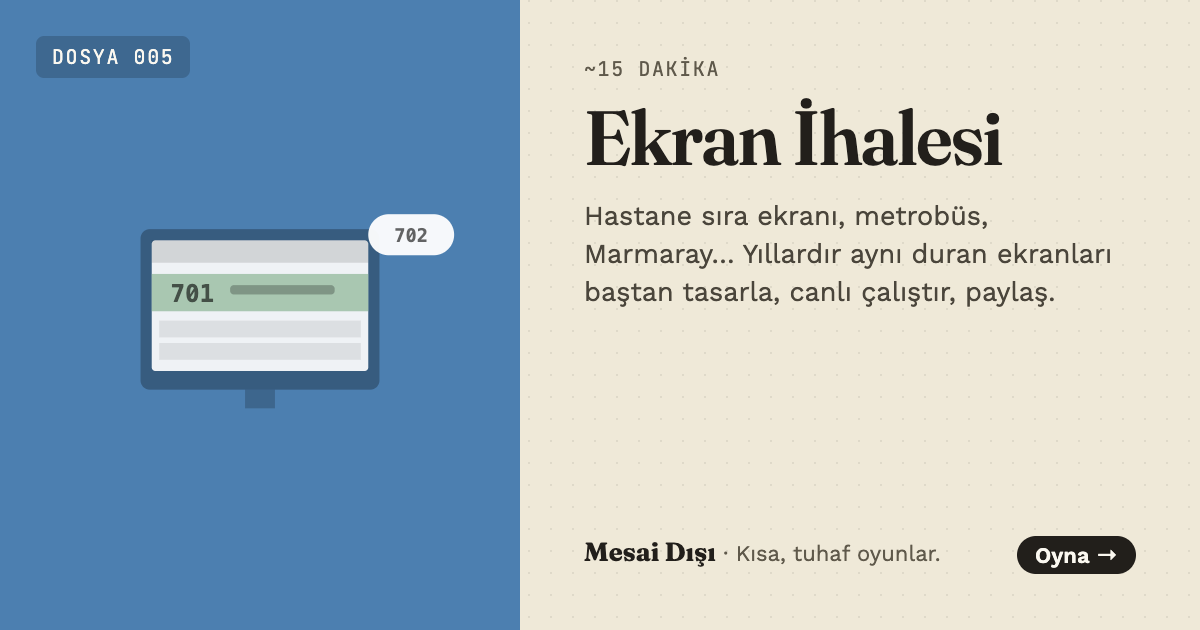
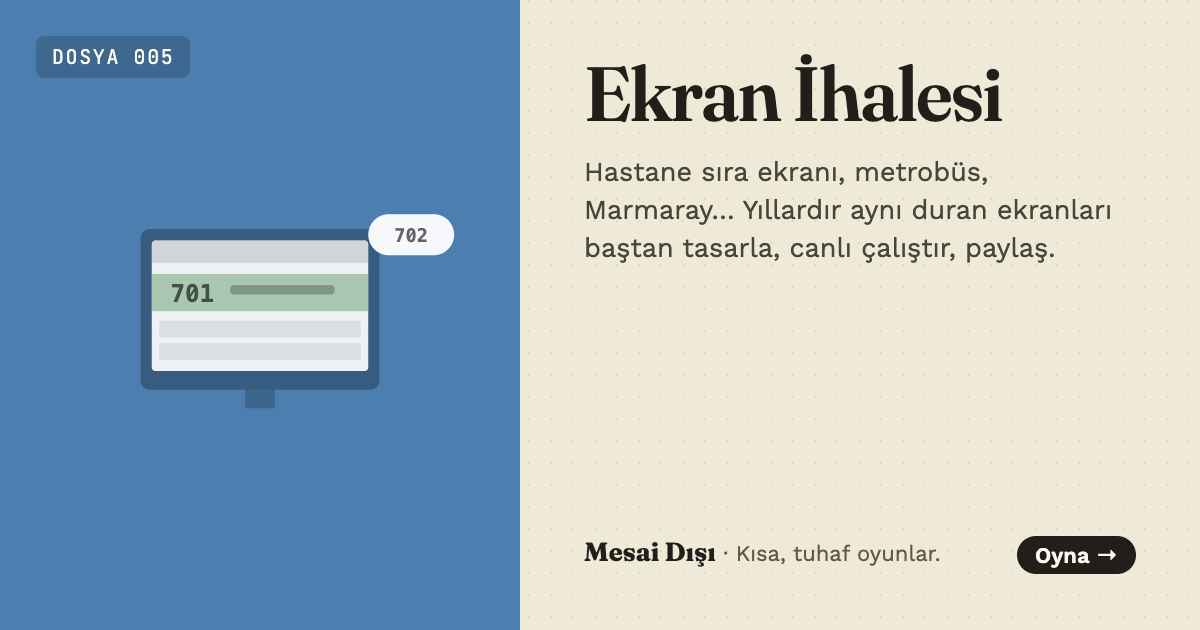
Oyun kartlarında süre yerine tek cümlelik espri
- Maket kartı ve paylaşım önizlemesi artık oyun süresini yazmıyor
- Her oyunun adının altında onu şakayla anlatan bir cümle (games.ts'te quip); durakların ortak satırı kalktı
- Önizleme görselleri yeniden üretildi; eksik olan Kavşak Amiri ve Cüzdan Zamanı görselleri eklendi

Changed region(s): [[0.4933, 0.0905, 0.925, 0.4222], [0.4933, 0.4524, 0.8942, 0.4825]]

diff --git a/src/arcade/games.ts b/src/arcade/games.ts
@@ -16,9 +16,8 @@ export interface ArcadeGame {
   blurb: string;
   /** Kartın zemin rengi (tokens.css). */
   color: string;
-  minutes: number;
-  /** Süre bütün oyunun değil, oyunun bir gününün süresiyse: kartta "5 dk / gün" yazar. */
-  perDay?: boolean;
+  /** Oyunu tek cümleyle, şakayla anlatan satır: maketteki kartta oyunun adının altında yazar. */
+  quip: string;
   /** Personel dosyası numarası: kartın sekmesinde yazar, sırayı da verir. */
   file: number;
 }
@@ -29,7 +28,7 @@ export const GAMES: ArcadeGame[] = [
     title: 'Cüzdan Zamanı',
     blurb: 'Cüzdan TL 2005\'te açılıyor. Saati 2002\'ye geri al: simit 250 bin, ekran mavi pencereli. Eski fiyatı bil, ucuzu seç, çevirmeli bağlanıp eski bakkaldan alışveriş yap; her şeyi enflasyonla karşılaştır.',
     color: 'var(--teal)',
-    minutes: 8,
+    quip: "Saati 2002'ye geri alıyorsun: simit ucuzluyor, sen bir anlığına zengin oluyorsun.",
     file: 9,
   },
   {
@@ -37,7 +36,7 @@ export const GAMES: ArcadeGame[] = [
     title: 'Kavşak Amiri',
     blurb: 'Tek kavşaktan dört kavşaklı caddeye. Yeşili, sarıyı, kırmızıyı ayarla; maç çıkışında dedektörü aç, sönen ışığa usta çağır, Vatan Caddesi’ne yeşil dalga kur.',
     color: 'var(--blue-ink)',
-    minutes: 18,
+    quip: "Kırk sürücü aynı anda korna çalıyor ve hepsi haklı; ışık sende.",
     file: 8,
   },
   {
@@ -45,7 +44,7 @@ export const GAMES: ArcadeGame[] = [
     title: 'Yama Ekibi',
     blurb: 'Üç aydır kapanmayan çukur, yağmur ve kurdele kesmeye gelen başkan. Toprağı dök, mıcırı yay, asfalt soğumadan silindiri geçir.',
     color: 'var(--red)',
-    minutes: 8,
+    quip: "Üç aydır bekleyen çukuru, başkan kurdeleyi kesmeden kapatman gerekiyor.",
     file: 7,
   },
   {
@@ -53,7 +52,7 @@ export const GAMES: ArcadeGame[] = [
     title: 'Meydan Islahı',
     blurb: 'İstanbul’dan Diyarbakır’a beş sokak: kaçak katlar, klimalar, kompozit yamalar. Cepheyi kapla, binayı güçlendir, tabelaları hizaya sok.',
     color: 'var(--green)',
-    minutes: 10,
+    quip: "Klimayı, tabelayı, kaçak katı topla; gerisini bir sonraki imar affına bırak.",
     file: 6,
   },
   {
@@ -61,7 +60,7 @@ export const GAMES: ArcadeGame[] = [
     title: 'Ekran İhalesi',
     blurb: 'Hastane sıra ekranı, metrobüs, Marmaray… Yıllardır aynı duran ekranları baştan tasarla, canlı çalıştır, paylaş.',
     color: 'var(--blue)',
-    minutes: 15,
+    quip: "2009'dan beri \"PES**** TÜR****\" yazan ekranı kurtarma ihalesi sana kaldı.",
     file: 5,
   },
   {
@@ -69,8 +68,7 @@ export const GAMES: ArcadeGame[] = [
     title: 'Köy Bakkalı',
     blurb: 'Etiket yok, fiyatı sen söylersin. Müşterinin yüzünü oku, defterini tut, köyü küstürmeden kasayı doldur. Şükrü Amca 30 gün sonra dönüyor.',
     color: 'var(--gold)',
-    minutes: 5,
-    perDay: true,
+    quip: "Etiket yok, fiyatı sen söylersin; köy de senin hakkında ne düşündüğünü söyler.",
     file: 4,
   },
   {
@@ -78,7 +76,7 @@ export const GAMES: ArcadeGame[] = [
     title: 'İnşaat İzleme',
     blurb: 'Bir apartman, temelden çatıya. Ellerini arkana koy, izle. Yorum yapmak serbest, karışmak yasak.',
     color: 'var(--clay)',
-    minutes: 7,
+    quip: "Hiçbir şeye dokunmadan koca bir apartman bitiriyorsun; amcalar seninle gurur duyuyor.",
     file: 3,
   },
   {
@@ -86,7 +84,7 @@ export const GAMES: ArcadeGame[] = [
     title: 'Genel Yetenek ve Uyum Testi',
     blurb: 'Bilimsel olarak geliştirilmiş, tamamen objektif bir değerlendirme. Lütfen sekmeyi değiştirmeyiniz.',
     color: 'var(--plum)',
-    minutes: 24,
+    quip: "Doğru cevap yok, ama yanlış cevaplarınız yöneticinize raporlanacaktır.",
     file: 2,
   },
   {
@@ -94,7 +92,7 @@ export const GAMES: ArcadeGame[] = [
     title: "Sen İK'sin",
     blurb: '5 günlük işe alım simülasyonu. Kurallara mı uyacaksın, vicdanını mı dinleyeceksin?',
     color: 'var(--teal)',
-    minutes: 45,
+    quip: "Beş günde yüzlerce CV, bir müdür ve bir vicdan: üçünü birden memnun edemezsin.",
     file: 1,
   },
 ];

diff --git a/src/arcade/welcome/stops.ts b/src/arcade/welcome/stops.ts
@@ -17,8 +17,6 @@ export interface Stop {
   name: string;
   where: string;
   routes: GameRoute[];
-  /** Kartta oyunun altına düşen kısa satır. */
-  line: string;
   /** İşaretin kutu içindeki yeri, yüzde olarak. */
   x: number;
   y: number;
@@ -33,20 +31,20 @@ function toBox(ix: number, iy: number) {
   return { x: ((ix * scale - crop) / BOX_W) * 100, y: ((iy * scale) / BOX_H) * 100 };
 }
 
-const RAW: { id: PlaceId; at: [number, number]; r: number; line: string }[] = [
-  { id: 'plaza', at: [545, 250], r: 13, line: 'Asansör iki kat sorar: işe alım ya da uyum testi.' },
-  { id: 'santiye', at: [845, 330], r: 13, line: 'Temelden çatıya bir apartman. İzle, karışma.' },
-  { id: 'meydan', at: [255, 470], r: 13, line: 'Çatlak sıvalar, kaçak katlar: cepheyi elden geçir.' },
-  { id: 'bakkal', at: [350, 615], r: 10, line: 'Etiket yok; fiyatı sen söylersin.' },
-  { id: 'durak', at: [495, 605], r: 7, line: 'Yıllardır aynı duran ekranı baştan tasarla.' },
-  { id: 'isik', at: [697, 585], r: 6, line: 'Yeşili, sarıyı, kırmızıyı sen ayarla.' },
-  { id: 'doviz', at: [790, 625], r: 10, line: 'Kurlar 2002’den. Eski fiyatı bil, cüzdanı doldur.' },
-  { id: 'cukur', at: [672, 716], r: 7, line: 'Üç aydır kapanmayan çukur. Asfalt soğumadan kapat.' },
+const RAW: { id: PlaceId; at: [number, number]; r: number }[] = [
+  { id: 'plaza', at: [545, 250], r: 13 },
+  { id: 'santiye', at: [845, 330], r: 13 },
+  { id: 'meydan', at: [255, 470], r: 13 },
+  { id: 'bakkal', at: [350, 615], r: 10 },
+  { id: 'durak', at: [495, 605], r: 7 },
+  { id: 'isik', at: [697, 585], r: 6 },
+  { id: 'doviz', at: [790, 625], r: 10 },
+  { id: 'cukur', at: [672, 716], r: 7 },
 ];
 
-export const STOPS: Stop[] = RAW.map(({ id, at, r, line }) => {
+export const STOPS: Stop[] = RAW.map(({ id, at, r }) => {
   const place = PLACES.find((p) => p.id === id)!;
-  return { id, name: place.name, where: place.where, routes: place.routes, line, r, ...toBox(at[0], at[1]) };
+  return { id, name: place.name, where: place.where, routes: place.routes, r, ...toBox(at[0], at[1]) };
 });
 
 /** İmlecin en yakın durağı (kutu yüzdesiyle; yükseklik kutunun en-boy oranıyla düzeltilir). */

diff --git a/src/arcade/welcome/Model.tsx b/src/arcade/welcome/Model.tsx
@@ -175,9 +175,8 @@ function Card({ stop, progress, onEnter, onClose, pinned }: { stop: Stop; progre
         return (
           <div key={route} className={s.game}>
             <h3>{g.title}</h3>
-            <p className={s.meta}>
-              {g.minutes} dk{g.perDay && ' / gün'}{played && <span className={s.played}> · ✓ {played.result}</span>}
-            </p>
+            <p className={s.line}>{g.quip}</p>
+            {played && <p className={`${s.meta} ${s.played}`}>✓ {played.result}</p>}
             {stop.routes.length > 1 && (
               <button type="button" className={s.play} onClick={() => onEnter(stop, route)}>
                 {played ? 'Tekrar oyna' : 'Oyna'}
@@ -189,7 +188,6 @@ function Card({ stop, progress, onEnter, onClose, pinned }: { stop: Stop; progre
           </div>
         );
       })}
-      <p className={s.line}>{stop.line}</p>
       {stop.routes.length === 1 && (
         <button type="button" className={s.play} onClick={() => onEnter(stop, stop.routes[0])}>
           {progress.played[stop.routes[0]] ? 'Tekrar oyna' : 'Oyna'}

diff --git a/src/og/OgCard.tsx b/src/og/OgCard.tsx
@@ -22,9 +22,6 @@ export function GameOg({ game }: { game: ArcadeGame }) {
         <Art />
       </div>
       <div className={styles.text}>
-        <p className={`${styles.meta} mono`}>
-          ~{game.minutes} dakika{game.perDay && ' / gün'}
-        </p>
         <h1 className={styles.title}>{game.title}</h1>
         <p className={styles.blurb}>{game.blurb}</p>
         <p className={styles.foot}>

diff --git a/src/og/OgCard.module.css b/src/og/OgCard.module.css
@@ -58,14 +58,6 @@
   padding: 56px 64px;
 }
 
-.meta {
-  margin: 0 0 18px;
-  font-size: 20px;
-  letter-spacing: 0.08em;
-  text-transform: uppercase;
-  color: var(--text-dim);
-}
-
 .title {
   margin: 0 0 22px;
   font-family: var(--font-display);

diff --git a/src/arcade/welcome/Model.module.css b/src/arcade/welcome/Model.module.css
@@ -332,7 +332,7 @@
 }
 
 .line {
-  margin: 12px 0 0;
+  margin: 6px 0 0;
   font-size: 13px;
   line-height: 1.55;
   color: #4d5a50;

diff --git a/CHANGELOG.md b/CHANGELOG.md
@@ -8,9 +8,10 @@ Her sürüm bir `vX.Y.Z` etiketiyle yayımlanır; etiket gönderilince `.github/
 - Ana sayfa artık mahalle maketi; eski kareli defter salonu (`ArcadeScreen`, `arcade/notebook/`, `arcade/mahalle/` sahnesi ve asansörü) hiçbir yerden açılmadığı için testleriyle birlikte silindi (~9.200 satır). Aşağıdaki defter maddeleri bu yüzden artık sitede yok.
 - Maketin kırılma noktaları ortak listeye taşındı (`tests/layout.test.ts` yeniden geçiyor); 961 px ve üstünde maket çerçevesi, 560 px ve altında tek sütun.
 - UyumMetre: testi bir kez bitiren aday sistem kontrolünü beklemez; bölüm tanıtımında "Örnek soruyu atla, bölüme başla" çıkar.
-- Köy Bakkalı: açılıştaki yedi maddelik kural listesi kalktı, yerine iki cümlelik emanet notu; itibar sınırı ve elektrik gideri dükkândaki tanıtıma taşındı. Kartta süre "5 dk / gün"; maket kartındaki dükkân sahibi Şükrü Amca.
+- Köy Bakkalı: açılıştaki yedi maddelik kural listesi kalktı, yerine iki cümlelik emanet notu; itibar sınırı ve elektrik gideri dükkândaki tanıtıma taşındı. Maket kartındaki dükkân sahibi Şükrü Amca.
 - Cüzdan Zamanı: 2005 masaüstünün duvar kâğıdı akşamüstü Boğaz, başlat düğmesi Cüzdan'ın turuncu sikkesi; kullanıcı seçimi düğmeleri ekran okuyucuda düğme olarak okunur.
 - Kavşak Amiri: olaylar ve trafik ekipleri `incidentSim.ts`'e, yayalar `peds.ts`'e, tutanak `Tutanak.tsx`'e ayrıldı (sim.ts 1.279 → 1.030, Play.tsx 538 → 475 satır); çizim sırasında ref okuyan yerler düzeltildi.
+- Maket kartlarında ve paylaşım önizlemelerinde oyun süresi yazmıyor; her oyunun adının altında onu tek cümleyle anlatan bir espri var (`games.ts`'te `quip`).
 - README sitenin bütününü (oyunlar, adresleri, kodları, yeni oyun ekleme adımları) anlatıyor.
 
 ### Salon
